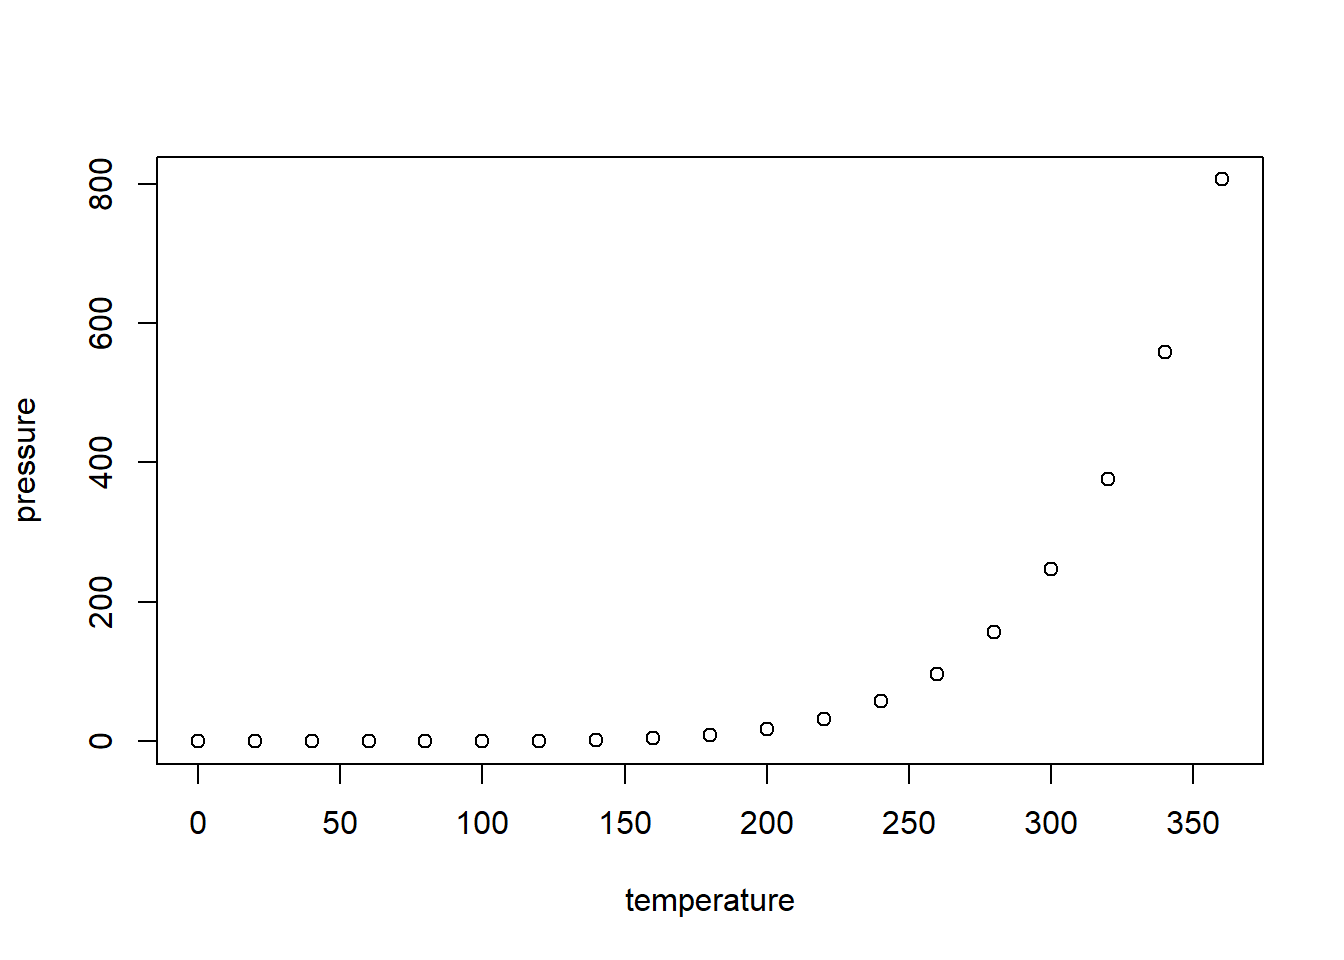
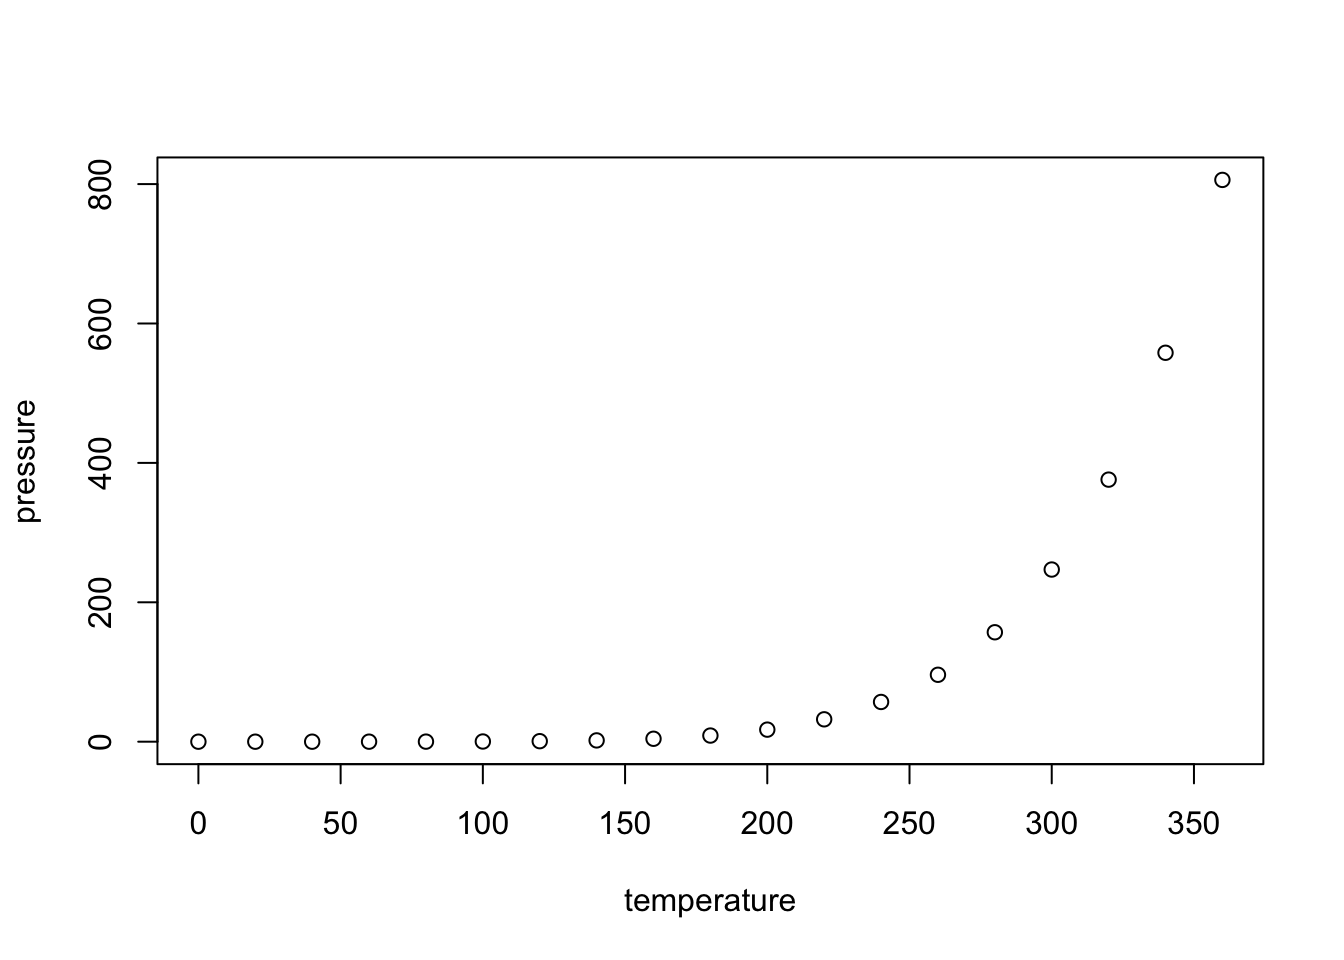
minor edits

diff --git a/docs/p10.html b/docs/p10.html
@@ -13,7 +13,7 @@
 
 <title>Portfolio 10</title>
 
-<script src="site_libs/header-attrs-2.30/header-attrs.js"></script>
+<script src="site_libs/header-attrs-2.29/header-attrs.js"></script>
 <script src="site_libs/jquery-3.6.0/jquery-3.6.0.min.js"></script>
 <meta name="viewport" content="width=device-width, initial-scale=1" />
 <link href="site_libs/bootstrap-3.3.5/css/bootstrap.min.css" rel="stylesheet" />
@@ -349,7 +349,7 @@ nec egestas mi.</p>
 <div id="including-plots" class="section level2">
 <h2>Including Plots</h2>
 <p>You can also embed plots, for example:</p>
-<p><img src="p10_files/figure-html/pressure-1.png" alt="" width="672" /></p>
+<p><img src="p10_files/figure-html/pressure-1.png" width="672" /></p>
 <p>Note that the <code>echo = FALSE</code> parameter was added to the
 code chunk to prevent printing of the R code that generated the
 plot.</p>

diff --git a/docs/p09.html b/docs/p09.html
@@ -494,13 +494,13 @@ filter out movies I have seen/books I have read:</p>
   # Getting rid of titles I have already watched/read
   filter(watched_or_read == 0) %&gt;%
   # Movie or book?
-  filter(Type == &quot;Movie&quot;) %&gt;%
+  filter(Type == &quot;____&quot;) %&gt;%
   # What genre are you in the mood for?
-  filter(Genre == &quot;Comedy&quot;) %&gt;%
+  filter(Genre == &quot;____&quot;) %&gt;%
   # What is the minimum rating you trust?
-  filter(Rating &gt;= 3) %&gt;%
+  filter(Rating &gt;= __) %&gt;%
   # How much time do you have? (enter max length preference in minutes/pages)
-  filter(Length &lt;= 500) 
+  filter(Length &lt;= ___) 
 
 sample(new_df$Title, 1)</code></pre>
 </div>
